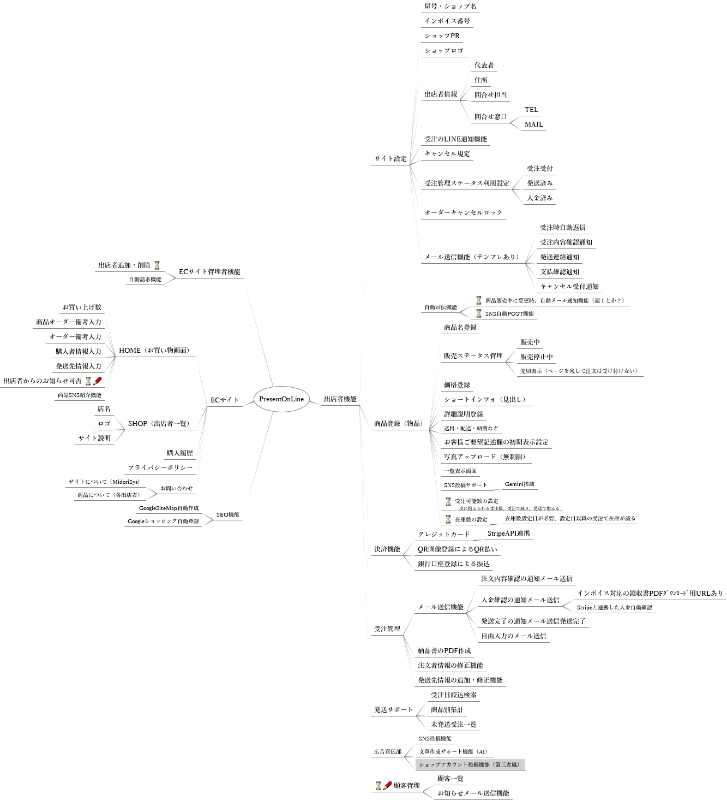
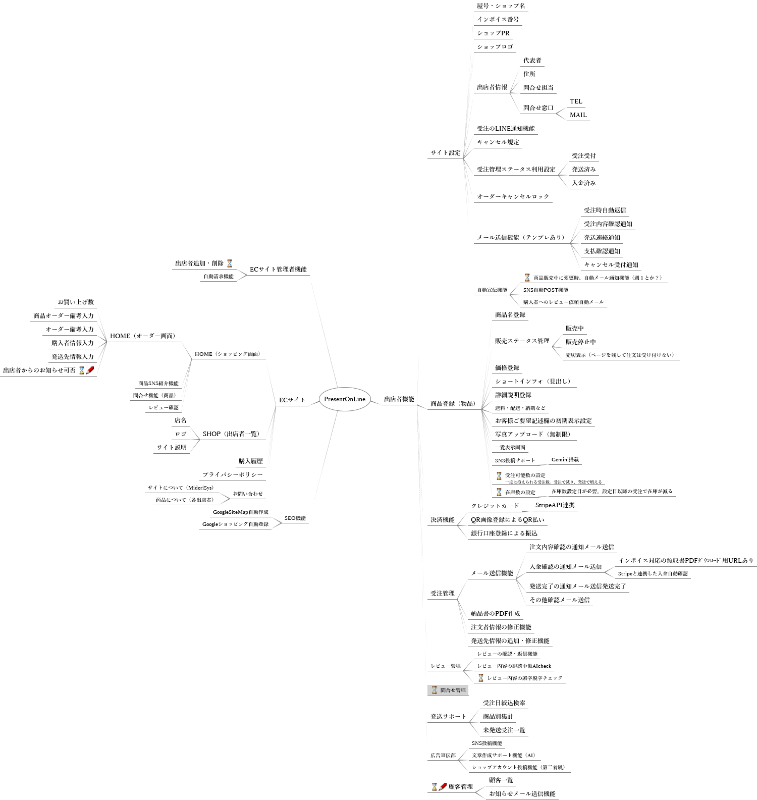
ver1.42.0:Geminiの文章check機能追加

diff --git a/ajax_chk_gemini.php b/ajax_chk_gemini.php
@@ -1,0 +1,66 @@
+<?php
+//review_onlineテーブルにデータをデリインで登録する。
+//テーブル項目はshop_id,shouhinCD,review,score,Contributor,NoName,orderNO
+require "php_header.php";
+register_shutdown_function('shutdown_ajax',basename(__FILE__));
+
+$msg = "";                          //ユーザー向け処理結果メッセージ
+log_writer2("\$_POST",$_POST,"lv3");
+
+
+$rtn = true;//csrf_checker(["review_post.php"],["P","S"]);
+if($rtn !== true){
+    $msg=$rtn;
+    $alert_status = "alert-warning";
+    $reseve_status = true;
+}else{
+    //Geminiで誹謗中傷check
+    $url = GEMINI_URL.GEMINI;
+    $data = [
+        'contents' => [
+            [
+                'parts' => [
+                    ['text' => '次の文章について誤字脱字等のチェックをお願いします。対象の文章「'.$_POST["Article"].'」']
+                ]
+            ]
+        ]
+    ];
+    
+    $options = [
+        'http' => [
+            'method' => 'POST',
+            'header' => [
+                'Content-Type: application/json',
+            ],
+            'content' => json_encode($data),
+        ],
+    ];
+    
+    $context = stream_context_create($options);
+    $response = file_get_contents($url, false, $context);
+    
+    log_writer2("\$response",$response,"lv3");
+    
+    if ($response === false) {
+        $msg =  'Gemini呼び出しに失敗しました。時間をおいて、再度実行してみてください。ER1';
+    } else {
+        $result = json_decode($response, true);
+        $msg = $result['candidates'][0]['content']['parts'][0]['text'];
+        
+        log_writer2("\$result",$result,"lv3"); 
+    
+        if (isset($msg)) {
+        } else {
+            $msg = 'Gemini呼び出しに失敗しました。時間をおいて、再度実行してみてください。ER2';
+        }
+    }
+}
+
+//$token = csrf_create();
+
+header('Content-type: application/json');
+echo json_encode($msg, JSON_UNESCAPED_UNICODE);
+
+exit();
+
+?>

diff --git a/configration.php b/configration.php
@@ -45,6 +45,7 @@
 				<textarea type='memo' class='form-control' id='site_pr' rows="10" v-model='site_pr'></textarea>
 				<small style='color:red;'>{{site_pr_chk}}</small>
 			</div>
+			<button type='button' class='btn btn-warning m-2' @click='chk_bunshou(site_pr)'>チェック</button>
 		</div>
 		<div class='row mb-1 pt-3'>
 			<div class='col-md-6 col-12'>
@@ -137,25 +138,6 @@
 
 		<hr>
 		<h4>受注管理画面の設定</h4>
-		<!--
-		<div class='row mb-3 pt-3'>
-			<div class='col-md-6 col-12'>
-				<p>受注管理に利用するステータス</p>
-				<div class="form-check">
-				<input type='checkbox' class='form-check-input' id='recept' v-model='chk_recept'>
-				<label for='recept' class="form-check-label">注文受付</label>
-				</div>
-				<div class="form-check">
-				<input type='checkbox' class='form-check-input' id='sent' v-model='chk_sent'>
-				<label for='sent' class="form-check-label">発送済み</label>
-				</div>
-				<div class="form-check">
-				<input type='checkbox' class='form-check-input' id='paid' v-model='chk_paid'>
-				<label for='paid' class="form-check-label">入金済み</label>
-				</div>
-				<small>何も選択しない場合、「完了 or 未完了 or キャンセル」での管理となります。</small>
-			</div>
-		</div>-->
 		<div class='row mb-5 pt-3'>
 			<div class='col-md-6 col-12'>
 				<label for='lock_sts' class="form-label">オーダーキャンセルロック</label>
